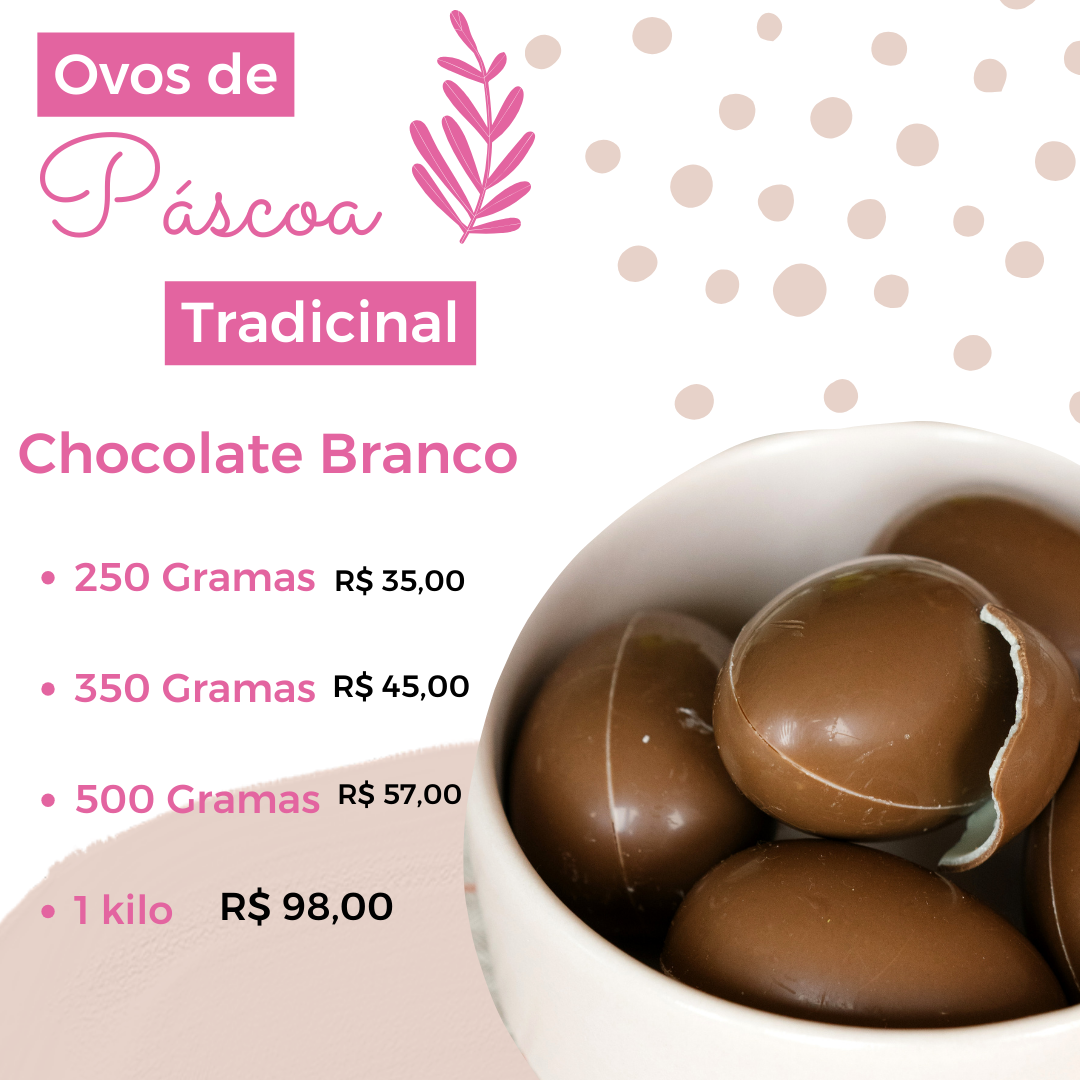
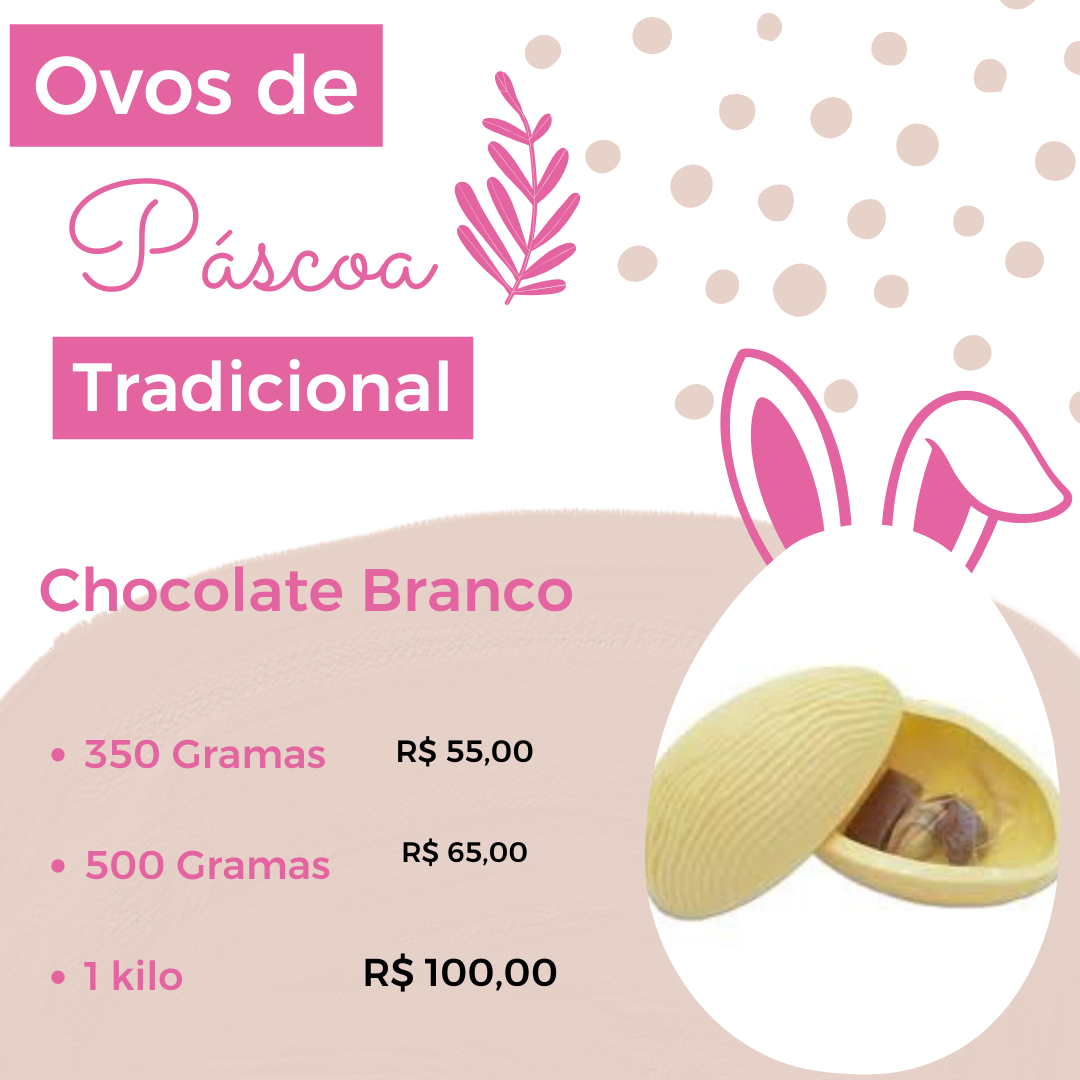
up
up

diff --git a/cantinho_da_bi/index.html b/cantinho_da_bi/index.html
@@ -53,10 +53,9 @@
         var responseTradicionalBranco = {};
         function valorTradBranco(){
             var brancoObject = {
-            '250g': 35,
-            '350g': 45,
-            '500g': 57,
-            '1kilo': 98
+            '350g': 55,
+            '500g': 65,
+            '1kilo': 100
             };
 
             var gramasInstance = document.querySelector('#gramasChocolateBrano').value;
@@ -89,10 +88,9 @@
         var responseTradicionalAoleite = {};
         function valorTradLeite(){
             var aoLeiteObject = {
-            '250g': 32,
-            '350g': 45,
-            '500g': 57,
-            '1kilo': 95
+            '350g': 55,
+            '500g': 65,
+            '1kilo': 100
             };           
 
             var gramasInstance = document.querySelector('#chocoAoLeite').value;
@@ -189,10 +187,9 @@
             var obs = document.querySelector("#obsTrufado").value;
             console.log(gramasInstance, banda1, banda2, sabor1, sabor2, quantidade, obs);
             var trufadoObject = {
-            '250g': 55,
-            '350g': 60,
-            '500g': 75,
-            '1kilo': 120
+            '350g': 65,
+            '500g': 78,
+            '1kilo': 125
             };    
             
             if(gramasInstance === 'Selecione'){
@@ -381,21 +378,8 @@
               <img src="image/12.jpg" alt="Imagem 12">
               <img src="image/13.jpg" alt="Imagem 13">
               <img src="image/14.jpg" alt="Imagem 14">
-              <img src="image/15.jpg" alt="Imagem 15">
-              <img src="image/16.jpg" alt="Imagem 16">
               <img src="image/19.jpg" alt="Imagem 19">
               <img src="image/20.jpg" alt="Imagem 20">
-              <img src="image/21.jpg" alt="Imagem 21">
-              <img src="image/22.jpg" alt="Imagem 22">
-              <img src="image/23.jpg" alt="Imagem 23">
-              <img src="image/24.jpg" alt="Imagem 24">
-              <img src="image/27.jpg" alt="Imagem 27">
-              <img src="image/28.jpg" alt="Imagem 28">
-              <img src="image/29.jpg" alt="Imagem 29">
-              <img src="image/31.jpg" alt="Imagem 31">
-              <img src="image/32.jpg" alt="Imagem 32">
-              <img src="image/33.jpg" alt="Imagem 33">
-              <img src="image/34.jpg" alt="Imagem 34">
             </div>
             <button class="prev" onclick="moveSlide(-1)">&#10094;</button>
             <button class="next" onclick="moveSlide(1)">&#10095;</button>
@@ -512,7 +496,6 @@
                         <p>Peso em Gramas</p>
                         <select id="gramasTrufado" class="gramas">
                             <option value="Selecione">Selecione</option>
-                            <option value="250g">250g</option>
                             <option value="350g">350g</option>
                             <option value="500g">500g</option>
                             <option value="1kilo">1kilo</option>    
